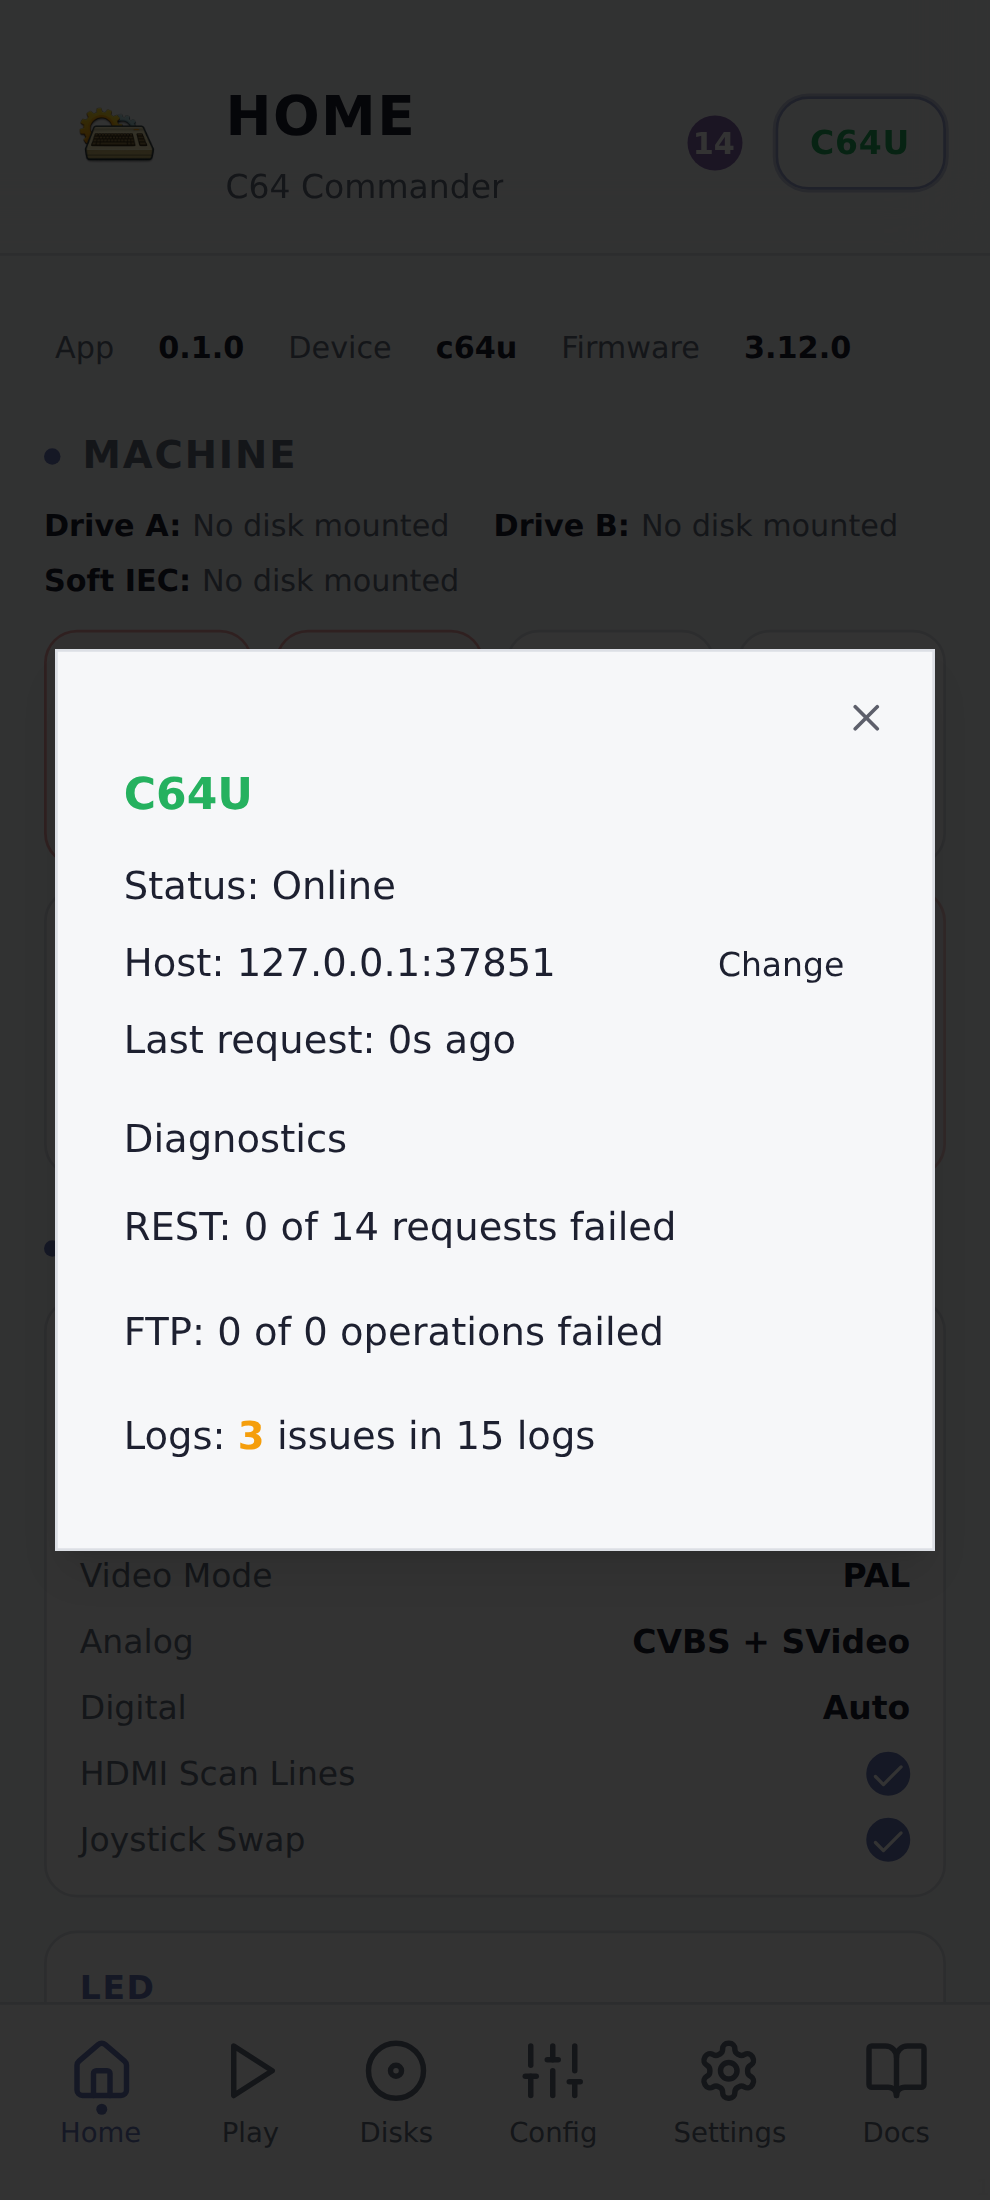
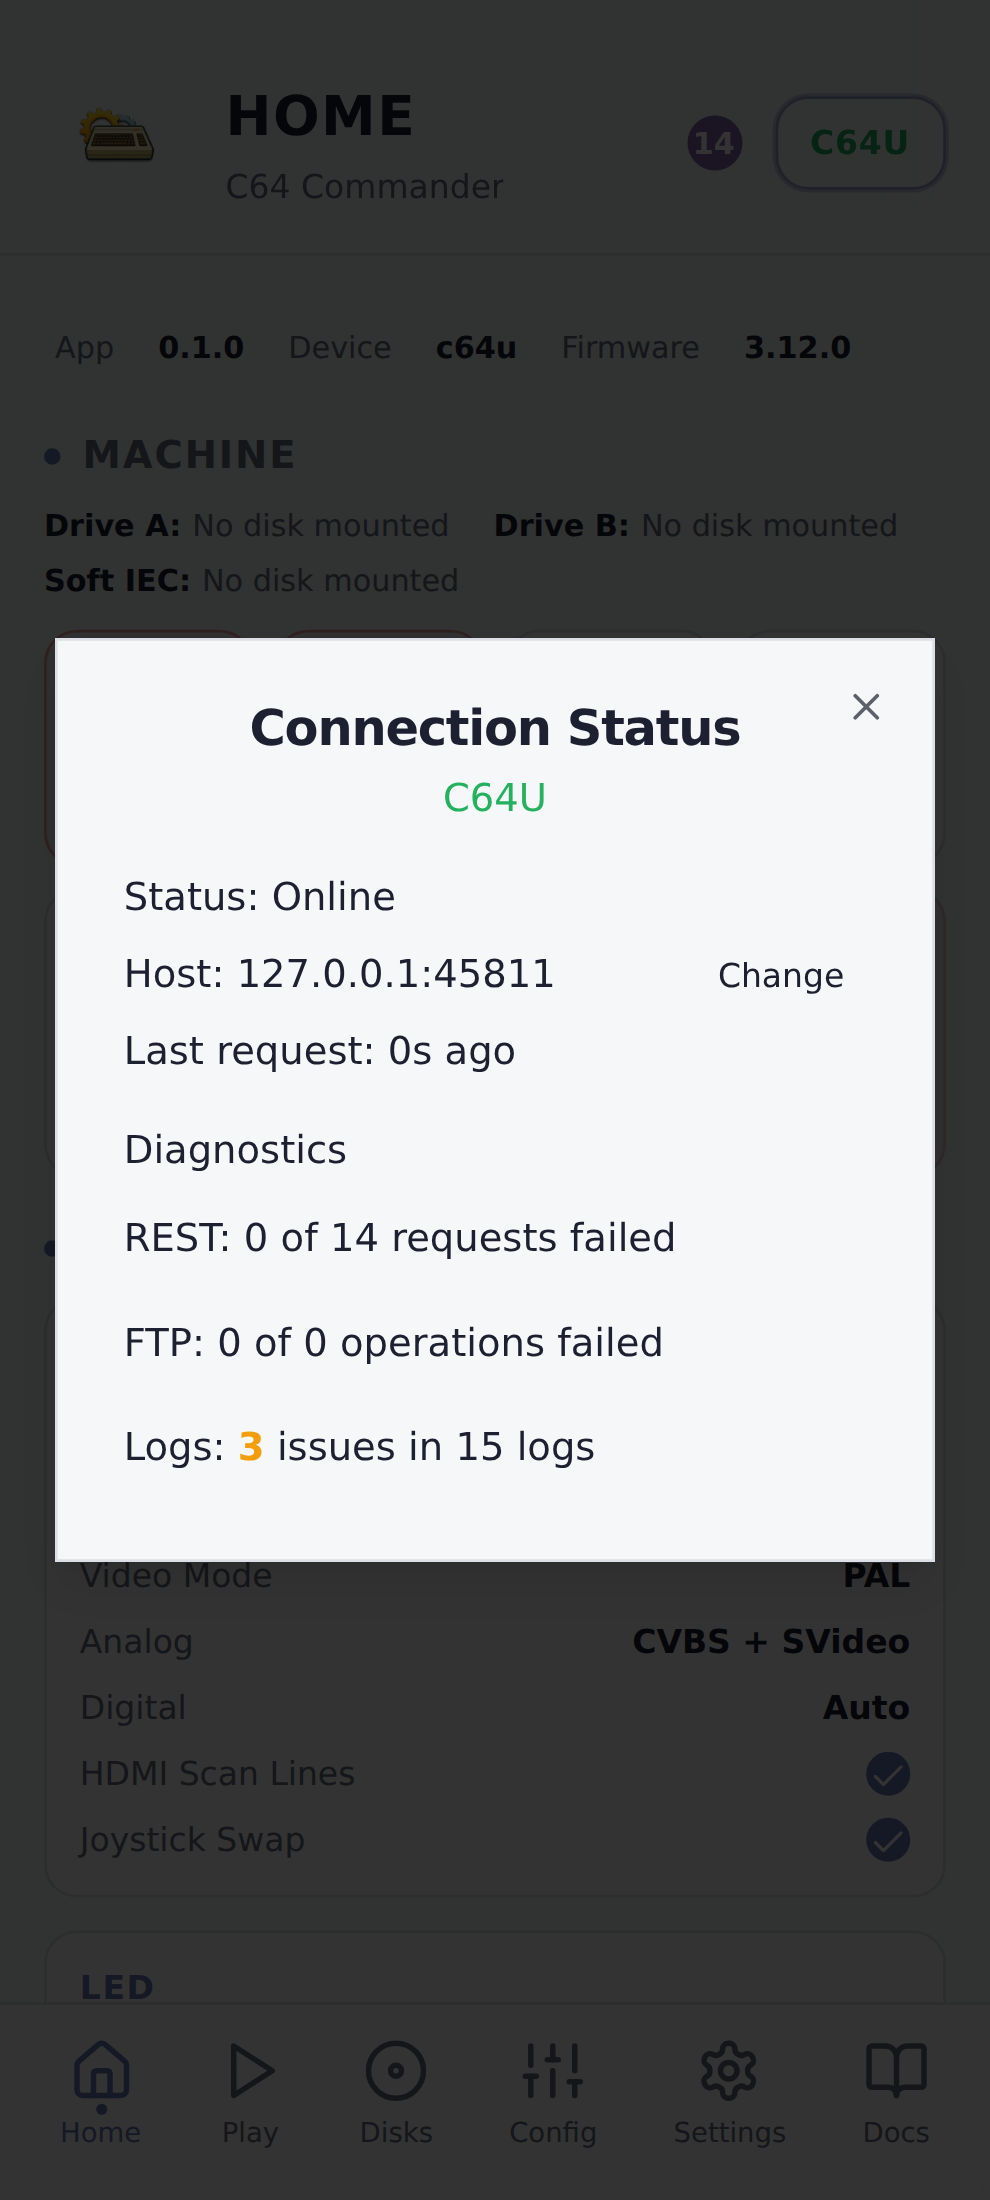
Fix Connection Status header: centered title, device-type description, consistent spacing

diff --git a/src/components/ConnectivityIndicator.tsx b/src/components/ConnectivityIndicator.tsx
@@ -9,7 +9,7 @@
 import { useMemo, useState } from 'react';
 import { Button } from '@/components/ui/button';
 import { Input } from '@/components/ui/input';
-import { Dialog, DialogContent, DialogDescription, DialogTitle } from '@/components/ui/dialog';
+import { Dialog, DialogContent, DialogDescription, DialogHeader, DialogTitle } from '@/components/ui/dialog';
 import { useConnectionDiagnosticsSummary } from '@/hooks/useConnectionDiagnosticsSummary';
 import { useConnectionState } from '@/hooks/useConnectionState';
 import { discoverConnection } from '@/lib/connection/connectionManager';
@@ -97,20 +97,16 @@ export function ConnectivityIndicator({ className }: Props) {
         closeTestId="connection-status-close"
         onOpenAutoFocus={(e) => e.preventDefault()}
       >
-        <div className="relative space-y-4 p-6" data-testid="connection-status-popover">
-          <DialogTitle className="sr-only">Connection Status</DialogTitle>
-          <DialogDescription className="sr-only">C64U connection status and diagnostics</DialogDescription>
-          <div className="space-y-3">
-            <p
-              className={cn(
-                'text-base font-semibold',
-                isDemoMode ? 'text-amber-500 indicator-demo' : 'text-success indicator-real',
-              )}
+        <div className="space-y-4 p-6" data-testid="connection-status-popover">
+          <DialogHeader>
+            <DialogTitle>Connection Status</DialogTitle>
+            <DialogDescription
+              className={cn(isDemoMode ? 'text-amber-500 indicator-demo' : 'text-success indicator-real')}
             >
-              C64U
-            </p>
-            {isDemoMode ? <p className="text-base font-semibold text-amber-500 indicator-demo">Demo</p> : null}
-            <div className="space-y-2 text-sm">
+              {isDemoMode ? 'C64U Demo (simulated device)' : 'C64U'}
+            </DialogDescription>
+          </DialogHeader>
+          <div className="space-y-2 text-sm">
               <p data-testid="connection-status-row-status" className="min-h-5"><span className="font-medium">Status:</span> {status}</p>
               {editingHost ? (
                 <div className="flex items-center gap-2">
@@ -136,7 +132,6 @@ export function ConnectivityIndicator({ className }: Props) {
                 </div>
               )}
               <p data-testid="connection-status-row-last-request" className="min-h-5"><span className="font-medium">Last request:</span> {lastRequest}</p>
-            </div>
           </div>
           <div className="space-y-1.5 text-sm" data-testid="connection-diagnostics-section">
             <p className="font-medium">Diagnostics</p>

diff --git a/tests/unit/components/ConnectivityIndicator.test.tsx b/tests/unit/components/ConnectivityIndicator.test.tsx
@@ -185,7 +185,7 @@ describe('ConnectivityIndicator', () => {
 
     const popover = getByTestId('connection-status-popover');
     expect(popover.className).toContain('space-y-4');
-    expect(popover.querySelector('.space-y-3')).toBeTruthy();
+    expect(popover.querySelector('.space-y-2')).toBeTruthy();
     expect(getByTestId('connection-diagnostics-section').className).toContain('space-y-1.5');
     expect(popover.textContent).toContain('Last request:');
     expect(popover.textContent).not.toContain('Communication:');
